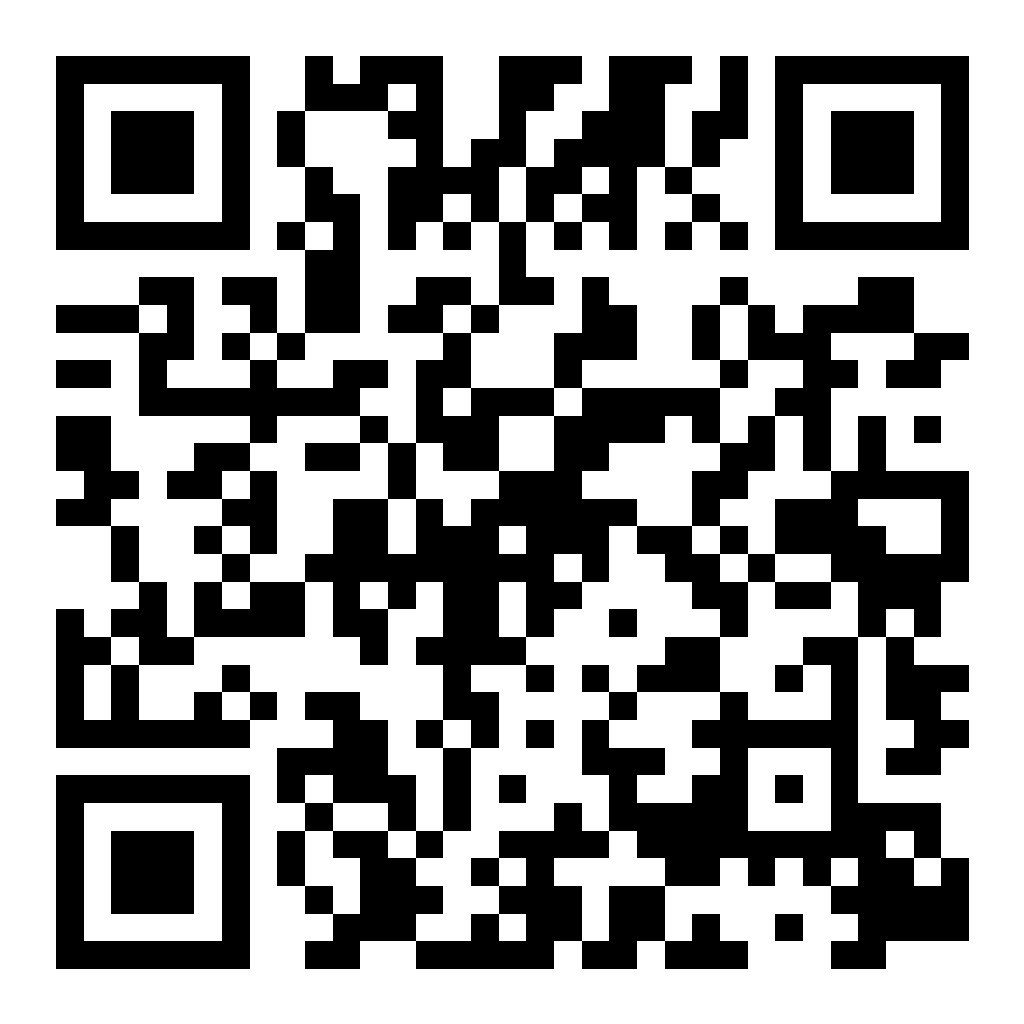
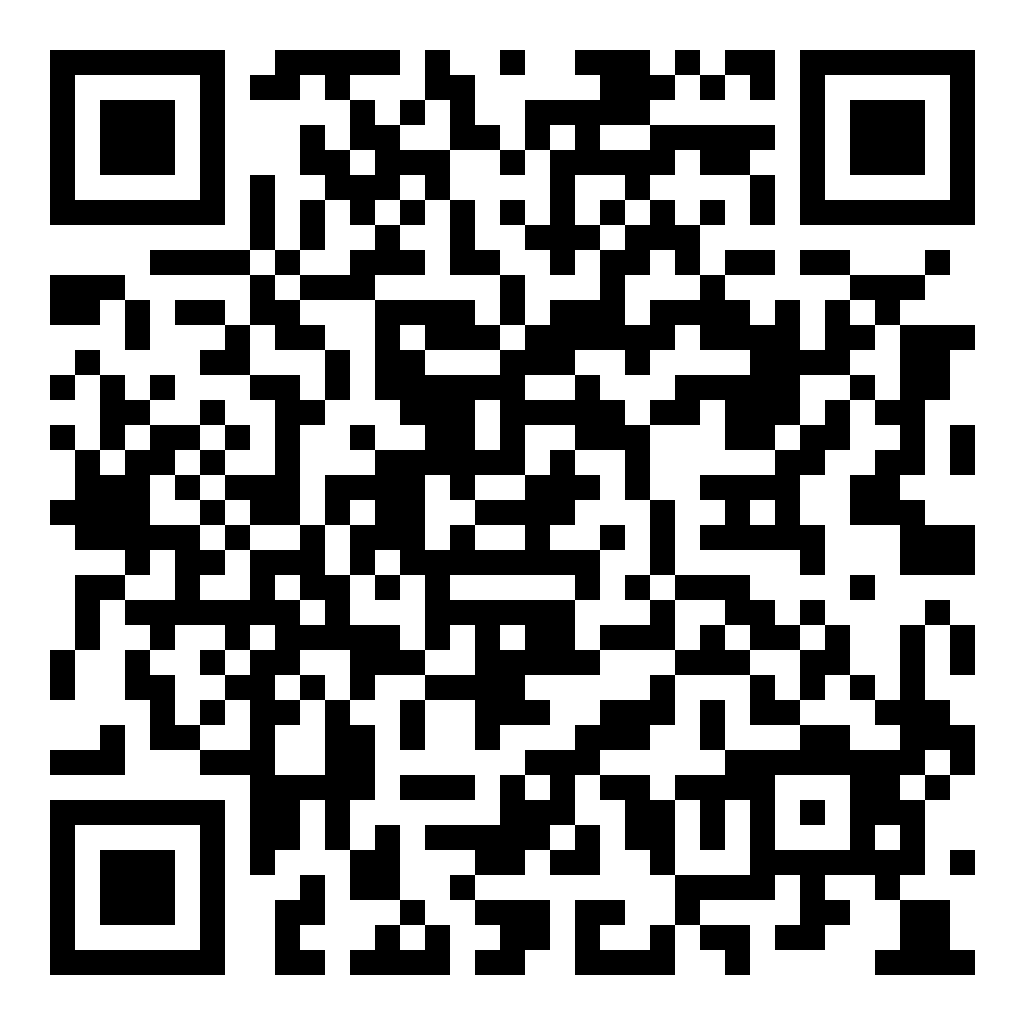
refactor: update price page canonical links, increase Instagram sync frequency, and refresh event data.

diff --git a/dist/prices.html b/dist/prices.html
@@ -16,7 +16,7 @@
 
     <!-- Open Graph / Facebook -->
     <meta property="og:type" content="website">
-    <meta property="og:url" content="https://masterszagreb.club/prices">
+    <meta property="og:url" content="https://masterszagreb.club/prices.html">
     <meta property="og:title" content="MASTERS Zagreb — Bar Drinks & Price List">
     <meta property="og:description"
         content="Official bar drinks menu and price list for MASTERS Zagreb. Craft beers, signature cocktails, Croatian spirits, wines, Club Mate, and energy drinks.">
@@ -25,7 +25,7 @@
 
     <!-- Twitter Card -->
     <meta name="twitter:card" content="summary_large_image">
-    <meta name="twitter:url" content="https://masterszagreb.club/prices">
+    <meta name="twitter:url" content="https://masterszagreb.club/prices.html">
     <meta name="twitter:title" content="MASTERS Zagreb — Bar Drinks & Price List">
     <meta name="twitter:description"
         content="Official bar drinks menu and price list for MASTERS Zagreb in EUR (€).">
@@ -38,14 +38,14 @@
         "@type": "Menu",
         "name": "MASTERS Zagreb Bar Menu",
         "description": "Beverages, craft beers, cocktails, Croatian spirits, and soft drinks price list.",
-        "url": "https://masterszagreb.club/prices",
+        "url": "https://masterszagreb.club/prices.html",
         "inLanguage": "en,hr",
-        "mainEntityOfPage": "https://masterszagreb.club/prices"
+        "mainEntityOfPage": "https://masterszagreb.club/prices.html"
     }
     </script>
 
     <!-- Canonical URL -->
-    <link rel="canonical" href="https://masterszagreb.club/prices">
+    <link rel="canonical" href="https://masterszagreb.club/prices.html">
 
     <!-- Favicon -->
     <link rel="icon" type="image/svg+xml" href="favicon.svg">
@@ -57,7 +57,7 @@
         rel="stylesheet">
 
     <!-- Stylesheet -->
-    <link rel="stylesheet" href="prices.css?v=1786207344874">
+    <link rel="stylesheet" href="prices.css?v=1786216792085">
 </head>
 
 <body>
@@ -163,7 +163,7 @@
                 <div class="qr-large-frame">
                     <img src="assests/qr-prices.svg" alt="MASTERS Bar QR Code">
                 </div>
-                <div class="qr-target-url">URL: https://masterszagreb.club/prices</div>
+                <div class="qr-target-url">URL: https://masterszagreb.club/prices.html</div>
                 <p style="font-size: 11px; color: #888888; max-width: 380px;">
                     Scan with any phone camera to instantly access the live drinks menu at the bar.
                     Print-ready SVG and PNG formats available for table stands and bar displays.
@@ -184,7 +184,7 @@
     </div>
 
     <!-- Core Engine Scripts -->
-    <script type="module" src="js/prices-sync.js?v=1786207344874"></script>
+    <script type="module" src="js/prices-sync.js?v=1786216792085"></script>
 </body>
 
 </html>

diff --git a/prices.html b/prices.html
@@ -16,7 +16,7 @@
 
     <!-- Open Graph / Facebook -->
     <meta property="og:type" content="website">
-    <meta property="og:url" content="https://masterszagreb.club/prices">
+    <meta property="og:url" content="https://masterszagreb.club/prices.html">
     <meta property="og:title" content="MASTERS Zagreb — Bar Drinks & Price List">
     <meta property="og:description"
         content="Official bar drinks menu and price list for MASTERS Zagreb. Craft beers, signature cocktails, Croatian spirits, wines, Club Mate, and energy drinks.">
@@ -25,7 +25,7 @@
 
     <!-- Twitter Card -->
     <meta name="twitter:card" content="summary_large_image">
-    <meta name="twitter:url" content="https://masterszagreb.club/prices">
+    <meta name="twitter:url" content="https://masterszagreb.club/prices.html">
     <meta name="twitter:title" content="MASTERS Zagreb — Bar Drinks & Price List">
     <meta name="twitter:description"
         content="Official bar drinks menu and price list for MASTERS Zagreb in EUR (€).">
@@ -38,14 +38,14 @@
         "@type": "Menu",
         "name": "MASTERS Zagreb Bar Menu",
         "description": "Beverages, craft beers, cocktails, Croatian spirits, and soft drinks price list.",
-        "url": "https://masterszagreb.club/prices",
+        "url": "https://masterszagreb.club/prices.html",
         "inLanguage": "en,hr",
-        "mainEntityOfPage": "https://masterszagreb.club/prices"
+        "mainEntityOfPage": "https://masterszagreb.club/prices.html"
     }
     </script>
 
     <!-- Canonical URL -->
-    <link rel="canonical" href="https://masterszagreb.club/prices">
+    <link rel="canonical" href="https://masterszagreb.club/prices.html">
 
     <!-- Favicon -->
     <link rel="icon" type="image/svg+xml" href="favicon.svg">
@@ -163,7 +163,7 @@
                 <div class="qr-large-frame">
                     <img src="assests/qr-prices.svg" alt="MASTERS Bar QR Code">
                 </div>
-                <div class="qr-target-url">URL: https://masterszagreb.club/prices</div>
+                <div class="qr-target-url">URL: https://masterszagreb.club/prices.html</div>
                 <p style="font-size: 11px; color: #888888; max-width: 380px;">
                     Scan with any phone camera to instantly access the live drinks menu at the bar.
                     Print-ready SVG and PNG formats available for table stands and bar displays.

diff --git a/dist/index.html b/dist/index.html
@@ -115,9 +115,9 @@
     <link rel="dns-prefetch" href="https://cdnjs.cloudflare.com">
     <link rel="preconnect" href="https://fonts.googleapis.com">
     <link rel="preconnect" href="https://fonts.gstatic.com" crossorigin>
-    <link rel="preload" href="style.css?v=1786207344874" as="style">
-    <link rel="preload" href="morph-menu.css?v=1786207344874" as="style">
-    <link rel="preload" href="logo-glitch.css?v=1786207344874" as="style">
+    <link rel="preload" href="style.css?v=1786216792085" as="style">
+    <link rel="preload" href="morph-menu.css?v=1786216792085" as="style">
+    <link rel="preload" href="logo-glitch.css?v=1786216792085" as="style">
     <link rel="preload" href="master-logo.svg" as="image">
 
     <!-- Fonts -->
@@ -125,9 +125,9 @@
         rel="stylesheet">
 
     <!-- Stylesheets -->
-    <link rel="stylesheet" href="style.css?v=1786207344874">
-    <link rel="stylesheet" href="morph-menu.css?v=1786207344874">
-    <link rel="stylesheet" href="logo-glitch.css?v=1786207344874">
+    <link rel="stylesheet" href="style.css?v=1786216792085">
+    <link rel="stylesheet" href="morph-menu.css?v=1786216792085">
+    <link rel="stylesheet" href="logo-glitch.css?v=1786216792085">
 </head>
 
 <body>
@@ -201,8 +201,8 @@
     <script src="https://cdnjs.cloudflare.com/ajax/libs/three.js/r128/three.min.js"
         integrity="sha512-dLxUelApnYxpLt6K2iomGngnHO83iUvZytA3YjDUCjT0HDOHKXnVYdf3hU4JjM8uEhxf9nD1/ey98U3t2vZ0qQ=="
         crossorigin="anonymous" referrerpolicy="no-referrer"></script>
-    <script src="audio-logo.js?v=1786207344874"></script>
-    <script type="module" src="js/main.js?v=1786207344874"></script>
+    <script src="audio-logo.js?v=1786216792085"></script>
+    <script type="module" src="js/main.js?v=1786216792085"></script>
 </body>
 
 </html>

diff --git a/scripts/scrape-instagram.js b/scripts/scrape-instagram.js
@@ -248,22 +248,22 @@ const USER_AGENT = 'Mozilla/5.0 (Macintosh; Intel Mac OS X 10_15_7) AppleWebKit/
 async function fetchViaDirectWebAPI() {
     const cookies = process.env.INSTAGRAM_COOKIES;
     const sessionId = process.env.INSTAGRAM_SESSION_ID;
-    if (!cookies && !sessionId) {
-        throw new Error('No Instagram cookies/session available for direct Web API');
-    }
 
     console.log(`📡 Fetching timeline directly via Instagram Web API (@${INSTAGRAM_HANDLE})...`);
-    const cookieHeader = cookies || `sessionid=${sessionId}`;
+    const headers = {
+        'User-Agent': USER_AGENT,
+        'X-IG-App-ID': '936619743392459',
+        'X-Requested-With': 'XMLHttpRequest',
+        'Referer': `https://www.instagram.com/${INSTAGRAM_HANDLE}/`
+    };
+    if (cookies || sessionId) {
+        headers['Cookie'] = cookies || `sessionid=${sessionId}`;
+    }
+
     const url = `https://www.instagram.com/api/v1/users/web_profile_info/?username=${INSTAGRAM_HANDLE}`;
 
     const res = await axios.get(url, {
-        headers: {
-            'User-Agent': USER_AGENT,
-            'Cookie': cookieHeader,
-            'X-IG-App-ID': '936619743392459',
-            'X-Requested-With': 'XMLHttpRequest',
-            'Referer': 'https://www.instagram.com/'
-        },
+        headers: headers,
         timeout: 15000
     });
 

diff --git a/dist/merch.html b/dist/merch.html
@@ -26,8 +26,8 @@
     <link rel="preconnect" href="https://fonts.gstatic.com" crossorigin>
     <link href="https://fonts.googleapis.com/css2?family=Orbitron:wght@400;700;900&family=Share+Tech+Mono&display=swap"
         rel="stylesheet">
-    <link rel="stylesheet" href="style.css?v=1786207344874">
-    <link rel="stylesheet" href="merch.css?v=1786207344874">
+    <link rel="stylesheet" href="style.css?v=1786216792085">
+    <link rel="stylesheet" href="merch.css?v=1786216792085">
 </head>
 
 <body>
@@ -112,7 +112,7 @@
     <div class="bg-gradient"></div>
     <div class="scanlines"></div>
 
-    <script src="main.js?v=1786207344874"></script>
+    <script src="main.js?v=1786216792085"></script>
 </body>
 
 </html>

diff --git a/scripts/generate-qr.js b/scripts/generate-qr.js
@@ -3,7 +3,7 @@ const fs = require('fs');
 const path = require('path');
 
 async function generateQR() {
-    const targetUrl = 'https://masterszagreb.club/prices';
+    const targetUrl = 'https://masterszagreb.club/prices.html';
     const assestsDir = path.join(__dirname, '..', 'assests');
     
     if (!fs.existsSync(assestsDir)) {

diff --git a/dist/js/prices-sync.js b/dist/js/prices-sync.js
@@ -2,7 +2,7 @@ import { CONFIG } from './config.js';
 
 /**
  * MASTERS Zagreb — Drink Price List & Google Sheets / Excel Live Sync Engine
- * URL Target: https://masterszagreb.club/prices
+ * URL Target: https://masterszagreb.club/prices.html
  */
 
 export class PricesManager {

diff --git a/js/prices-sync.js b/js/prices-sync.js
@@ -2,7 +2,7 @@ import { CONFIG } from './config.js';
 
 /**
  * MASTERS Zagreb — Drink Price List & Google Sheets / Excel Live Sync Engine
- * URL Target: https://masterszagreb.club/prices
+ * URL Target: https://masterszagreb.club/prices.html
  */
 
 export class PricesManager {
